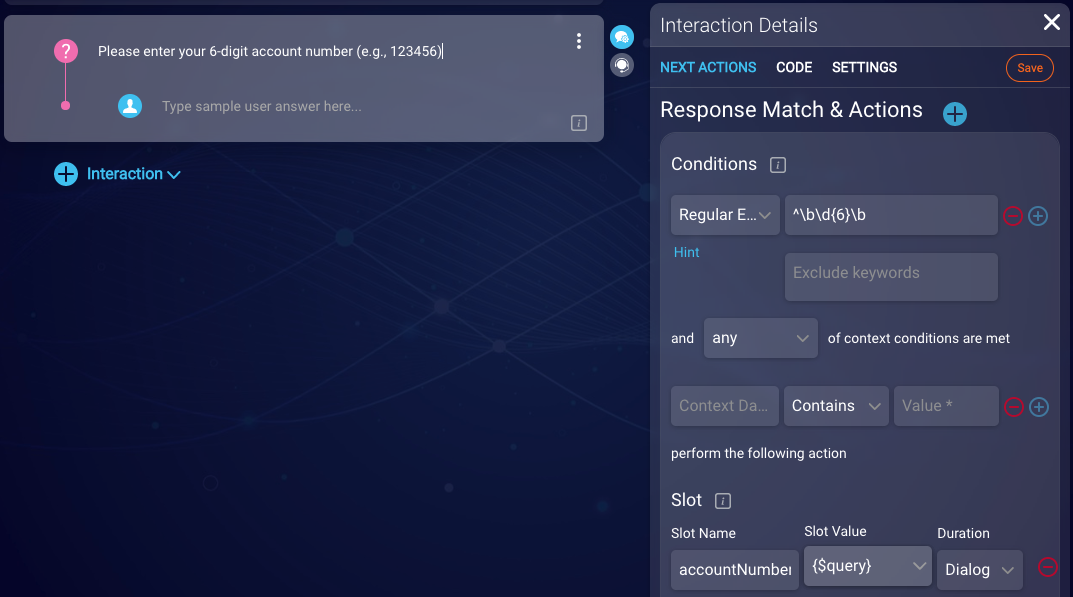
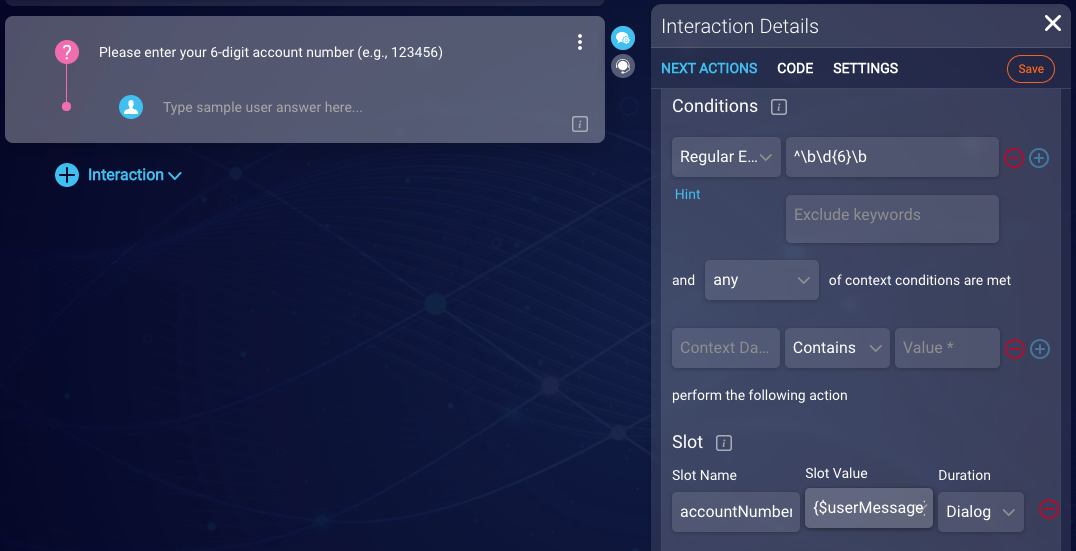
Update {$query} with {$userMessage} instead

diff --git a/pages/documents/ConversationalAI/ConversationBuilder/GettingStarted/3-Integrations.md b/pages/documents/ConversationalAI/ConversationBuilder/GettingStarted/3-Integrations.md
@@ -79,11 +79,11 @@ This tutorial uses an example API that returns random balance data when given an
 
     To get the user's account balance, you need to ask for their account number.
 6. Add a Text question <img style="width:20px" src="img/ConvoBuilder/helloworld/icon_textQuestion.png">. For the question text, enter, "Please enter your 6-digit account number (e.g., 123456)."
-7. Still in the Text question, open the Interaction Details, and add a condition on the **Next Actions** tab. To do so, select "Regular Expression," and add the following regular expression (regex) to match 6-digit numbers: `^\b\d{6}\b`. Next, capture the user’s account number as a slot variable. Under Slot, enter a **Slot Name** of "accountNumber"; for **Slot Value**, enter `{$query}` or leave the default value of `{$userMessage}` (either will work), and for **Duration**, make sure it's set to "Dialog." 
+7. Still in the Text question, open the Interaction Details, and add a condition on the **Next Actions** tab. To do so, select "Regular Expression," and add the following regular expression (regex) to match 6-digit numbers: `^\b\d{6}\b`. Next, capture the user’s account number as a slot variable. Under Slot, enter a **Slot Name** of "accountNumber"; for **Slot Value**, enter `{$userMessage}`; and for **Duration**, make sure it's set to "Dialog." 
 <img class="fancyimage" style="width:800px" src="img/ConvoBuilder/helloworld/askaccountnumber.png">
   You also need to ask for and capture the user's email address.
 8. Add another Text question. For the question text, enter, "Please enter your email address (e.g., fred@home.com)."
-9. Still in the Text question, open the Interaction Details, and add a condition on the **Next Actions** tab. To do so, select "Regular Expression," and add the following regex to match email addresses: `^\w+([\.-]?\w+)*@\w+([\.-]?\w+)*(\.\w{2,3})+$`. Under Slot, enter a **Slot Name** of "userEmail"; for **Slot Value**, enter `{$query}` or leave the default value of `{$userMessage}` (either will work), and for **Duration**, make sure it’s set to "Dialog."
+9. Still in the Text question, open the Interaction Details, and add a condition on the **Next Actions** tab. To do so, select "Regular Expression," and add the following regex to match email addresses: `^\w+([\.-]?\w+)*@\w+([\.-]?\w+)*(\.\w{2,3})+$`. Under Slot, enter a **Slot Name** of "userEmail"; for **Slot Value**, enter `{$userMessage}`; and for **Duration**, make sure it’s set to "Dialog."
 <img class="fancyimage" style="width:800px" src="img/ConvoBuilder/helloworld/askemail.png">
   When you created the Balance integration, you told it to use the following slots in the request:
 
